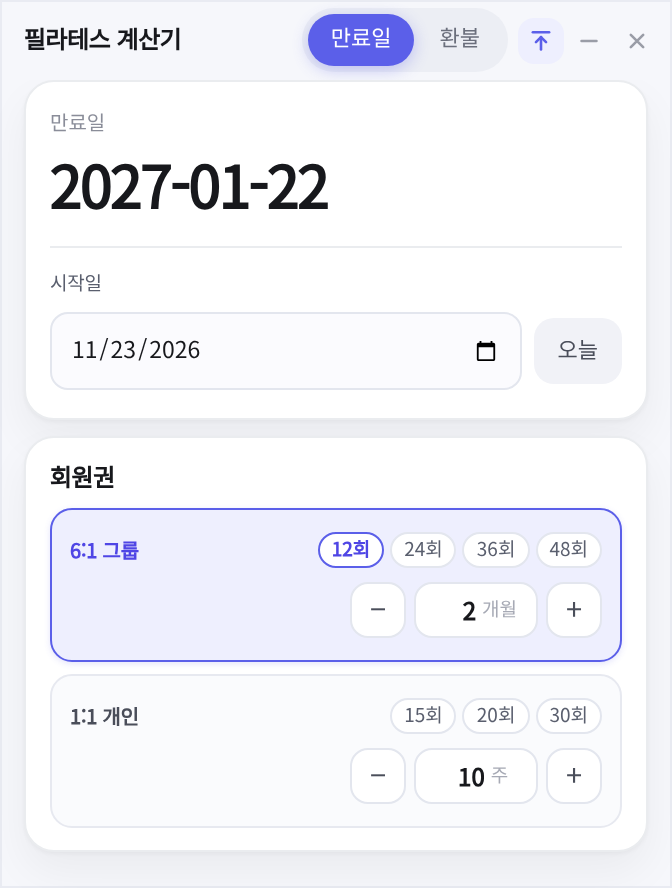
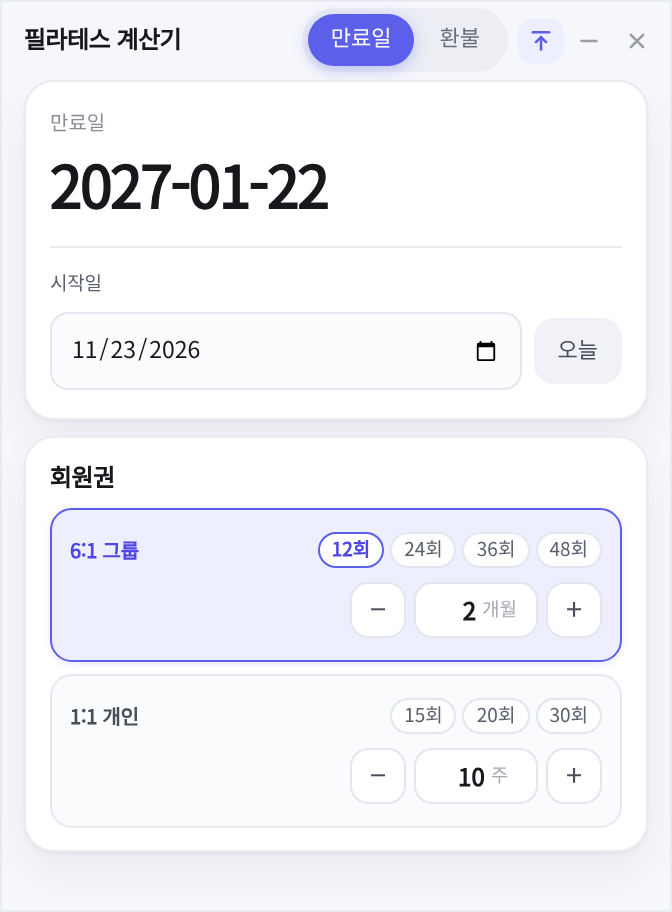
창 기본 크기를 336×456으로 조정하고 안내 문구를 한 줄로 고정해 모든 상태에서 잘림 없게

diff --git a/web/index.html b/web/index.html
@@ -155,7 +155,7 @@
     font-variant-numeric:tabular-nums;
   }
   .big.is-empty{color:#C9CCD6;}
-  .sub{margin:3px 0 0; font-size:10px; color:var(--muted);}
+  .sub{margin:3px 0 0; font-size:9.5px; color:var(--muted); white-space:nowrap; overflow:hidden; text-overflow:ellipsis;}
   .sub:empty{display:none;}
   .sub.is-error{color:var(--danger);}
   .kpis{

diff --git a/app.py b/app.py
@@ -20,7 +20,7 @@ import calculator
 from version import APP_VERSION
 
 WINDOW_TITLE = "필라테스 계산기"
-DEFAULT_SIZE = (336, 444)
+DEFAULT_SIZE = (336, 456)
 MIN_SIZE = (310, 440)
 REPO = "hs0522/calculator"
 RELEASES_API = f"https://api.github.com/repos/{REPO}/releases/latest"

diff --git a/README.md b/README.md
@@ -17,7 +17,7 @@
 
 ## 위젯 사용
 
-- 기본 크기 **336 × 444** (최소 **310 × 440**) 의 작은 창입니다. 카드가 내용만큼만 높이를 차지해 위아래 빈 공간이 없고, 테두리 없는 창이라 상단 제목 부분을 잡고 옮깁니다.
+- 기본 크기 **336 × 456** (최소 **310 × 440**) 의 작은 창입니다. 카드가 내용만큼만 높이를 차지해 위아래 빈 공간이 없고, 테두리 없는 창이라 상단 제목 부분을 잡고 옮깁니다.
 - 상단 오른쪽 **항상 위 고정**(핀) 토글과 최소화·닫기 아이콘.
 - 만료일 탭 맨 위 카드 하나에 **만료일 결과 · 시작일 입력** 이 함께 들어 있습니다. 만료일이 큰 글씨로 보이고, 구분선 아래에서 달력으로 시작일을 바꾸거나 `오늘`로 되돌립니다.
 - 만료일 탭 회원권 카드는 **6:1 그룹(개월)**·**1:1 개인(주)** 두 줄입니다. 줄마다 위에는 라벨과 `12회` 같은 프리셋 칩, 그 아래에는 **오른쪽으로 모은 아담한 스테퍼**(`[−] [2 개월] [+]`, 폭 약 126px)가 놓입니다. 프리셋을 누르면 그 줄에 기본 기간이 들어가고 줄이 인디고로 강조되며, 가운데 칸의 숫자를 직접 고쳐 쓰거나 `−`·`+`로 이벤트 기간을 바로 조절합니다. 단위(`개월`·`주`)는 숫자 칸 안 오른쪽에 작고 연한 회색으로 붙어 있습니다.
@@ -92,7 +92,7 @@ ci/release.yml         릴리즈 워크플로우 원본 (→ .github/workflows/r
 pip install -r requirements.txt
 python -m unittest discover -s tests -v
 
-# 화면만 브라우저로 확인 (336x444 창으로 열기)
+# 화면만 브라우저로 확인 (336x456 창으로 열기)
 python dev_server.py        # http://127.0.0.1:8765/
 
 # 앱 실행 (윈도우)
